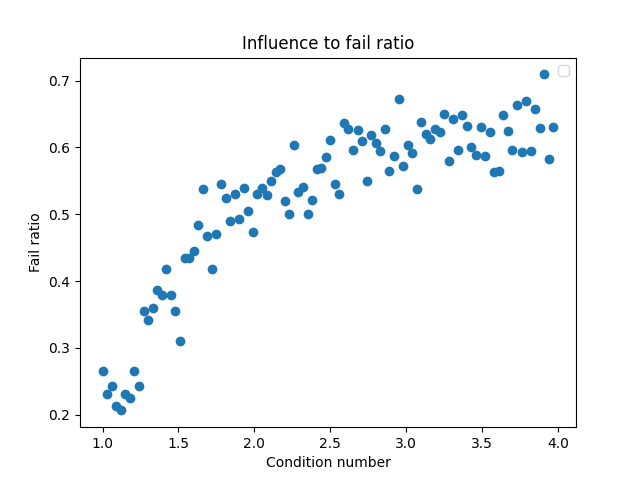
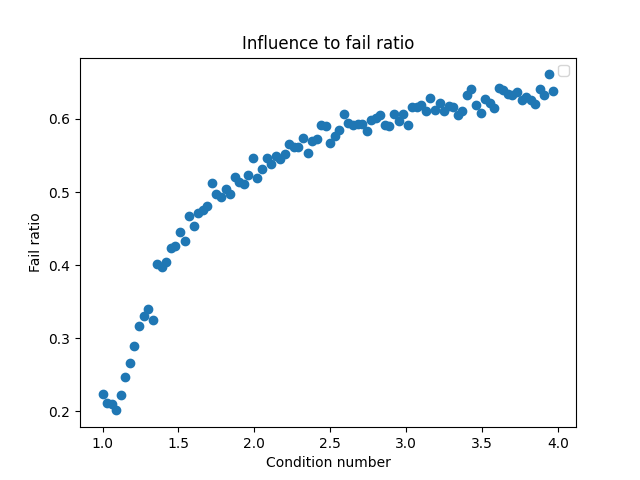
Improve task 4 comparisons

diff --git a/lab-1/src/main/kotlin/ru/itmo/optmethods/functions/quadratic/comparison/ConditionNumberInfluenceComparison.kt b/lab-1/src/main/kotlin/ru/itmo/optmethods/functions/quadratic/comparison/ConditionNumberInfluenceComparison.kt
@@ -20,19 +20,15 @@ object ConditionNumberInfluenceComparison : MethodComparison {
         maxGradientLength = 1000.0
     )
 
-    private val funPerConditionNumber = 100
+    private val funPerConditionNumber = 1000
     private val maxConditionNumber = 4
     private val conditionNumberStepsCount = 100
 
     override fun compare() {
-        compareWithIterationCount()
-        compareWithFailRatio()
-    }
-
-    private fun compareWithIterationCount() {
         val n = 2
         val start = Array(n) { -10.0 }.toList()
-        val points = mutableListOf<Pair<Rational, Rational>>()
+        val pointsIters = mutableListOf<Pair<Rational, Rational>>()
+        val pointsFails = mutableListOf<Pair<Rational, Rational>>()
 
         repeat(conditionNumberStepsCount) { step ->
             val k = 1.0 + (maxConditionNumber - 1.0) * step / conditionNumberStepsCount.toDouble()
@@ -55,7 +51,10 @@ object ConditionNumberInfluenceComparison : MethodComparison {
             }
 
             val avgIters = sumIterations.toDouble() / funPerConditionNumber
-            points += k to avgIters
+            pointsIters += k to avgIters
+
+            val failedPercentage = failsCount.toDouble() / (funPerConditionNumber + failsCount)
+            pointsFails += k to failedPercentage
         }
 
         plot(saveFigPath = "results/gradient/condition-number/influence-to-iterations.png") {
@@ -65,41 +64,11 @@ object ConditionNumberInfluenceComparison : MethodComparison {
 
             points {
                 add(
-                    points.map { it.first },
-                    points.map { it.second },
+                    pointsIters.map { it.first },
+                    pointsIters.map { it.second },
                     "o"
                 )
             }
-        }
-    }
-
-    private fun compareWithFailRatio() {
-        val n = 2
-        val start = Array(n) { -10.0 }.toList()
-        val points = mutableListOf<Pair<Rational, Rational>>()
-
-        repeat(conditionNumberStepsCount) { step ->
-            val k = 1.0 + (maxConditionNumber - 1.0) * step / conditionNumberStepsCount.toDouble()
-
-            var checkedFunctions = 0
-            var sumIterations = 0
-            var failsCount = 0
-
-            while (checkedFunctions < funPerConditionNumber) {
-                val qf = rnd.genQuadraticFunction(n, k, 10.0)
-                val gradient = qf.getGradient()
-
-                try {
-                    val result = gm.findMinimum(n, start, qf, gradient, GoldenRatioMethod())
-                    checkedFunctions++
-                    sumIterations += result.iterations
-                } catch (e: GradientMethodException) {
-                    failsCount++
-                }
-            }
-
-            val failedPercentage = failsCount.toDouble() / (funPerConditionNumber + failsCount)
-            points += k to failedPercentage
         }
 
         plot(saveFigPath = "results/gradient/condition-number/influence-to-fail-ratio.png") {
@@ -109,8 +78,8 @@ object ConditionNumberInfluenceComparison : MethodComparison {
 
             points {
                 add(
-                    points.map { it.first },
-                    points.map { it.second },
+                    pointsFails.map { it.first },
+                    pointsFails.map { it.second },
                     "o"
                 )
             }

diff --git a/lab-1/src/main/kotlin/ru/itmo/optmethods/functions/quadratic/comparison/ArgsCountInfluenceComparison.kt b/lab-1/src/main/kotlin/ru/itmo/optmethods/functions/quadratic/comparison/ArgsCountInfluenceComparison.kt
@@ -19,15 +19,16 @@ object ArgsCountInfluenceComparison : MethodComparison {
         maxGradientLength = 1000.0
     )
 
-    private val funPerArgsCount = 100
-    private val maxArgsCount = 20
-    private val conditionNumber = 1.1
+    private val funPerArgsCount = 1000
+    private val maxArgsCount = 15
 
     override fun compare() {
-        compareWithIterationCount()
+        compareWithIterationCount(1.0)
+        compareWithIterationCount(1.5)
+        compareWithIterationCount(2.0)
     }
 
-    private fun compareWithIterationCount() {
+    private fun compareWithIterationCount(conditionNumber: Rational) {
         val points = mutableListOf<Pair<Int, Rational>>()
 
         repeat(maxArgsCount - 1) {
@@ -55,7 +56,7 @@ object ArgsCountInfluenceComparison : MethodComparison {
             points += n to avgIters
         }
 
-        plot(saveFigPath = "results/gradient/args-count/influence-to-iterations.png") {
+        plot(saveFigPath = "results/gradient/args-count/influence-to-iterations-${conditionNumber}.png") {
             title("Influence to iterations")
             xlabel("Args count")
             ylabel("Avg iterations")
